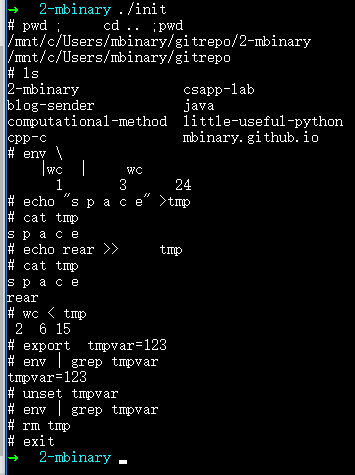
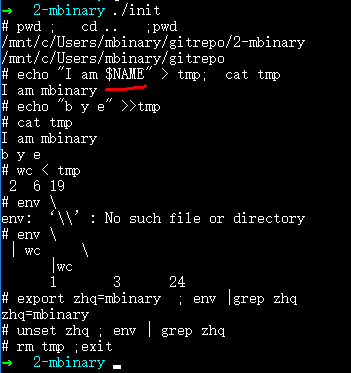
support varible

diff --git a/init.c b/init.c
@@ -8,7 +8,7 @@
         implemented some shell cmds and features;
         including:
             cmds: pwd,ls, cd ,cat, env, export , unset, 
-            features: \  |  < >   >>   ;   & " ' quote handle \t redundent blank
+            features:$ \  |  < >   >>   ;   & " ' quote handle \t redundent blank
  ************************************************************************/
 
 #include <unistd.h>
@@ -26,11 +26,13 @@
 #define MAX_PATH_LENGTH 255
 #define MAX_BUF_SIZE  4096
 #define MAX_ARG_NUM 50
+#define MAX_VAR_NUM 50
 #define MAX_CMD_NUM 10
+#define MAX_VAR_LENGTH 500
 
 #define FORK_ERROR 2
 #define EXEC_ERROR 3
-#define WRONG_INPUT 4
+
 struct cmd{
     struct cmd * next;
     int begin,end;  // pos in cmdStr
@@ -42,16 +44,19 @@ struct cmd{
 };
 
 struct cmd cmdinfo[MAX_CMD_NUM];
-int cmdNum;
 char cmdStr[MAX_CMD_LENGTH];    
+int cmdNum,varNum;
+char envVar[MAX_VAR_NUM][MAX_PATH_LENGTH];
 
-void Error(int n);
+
+void Error(int );
 void debug(struct cmd*);
 void init(struct cmd*);
 void setIO(struct cmd*,int ,int );
 int  getInput();
 int  parseCmds(int);
-int  getPath(char *,int);
+int  handleVar(struct cmd *,int);
+int  getItem(char *,char *,int);
 int  parseArgs();
 int  execInner(struct cmd*);
 int  execOuter(struct cmd*);
@@ -59,7 +64,7 @@ int  execOuter(struct cmd*);
 
 int main(){
     while (1){
-        cmdNum =0;
+        cmdNum = varNum = 0;
         printf("# ");
         fflush(stdin);
         int n = getInput();
@@ -177,23 +182,46 @@ int  parseCmds(int n){
     }
 }
 
-int getPath(char *path,int p){   
+int getItem(char *dst,char*src, int p){   
     /* get redirect file path from the cmdStr */
     int ct=0;
-    while(cmdStr[++p]==' ');
-    if(cmdStr[p]=='\n')return -1; //no file 
+    while(src[++p]==' ');
+    if(src[p]=='\n')return -1; //no file 
     char c;
-    while(c=path[ct++]=cmdStr[p++]){
+    while(c=dst[ct++]=src[p++]){
         if(c==' '||c=='|'||c=='<'||c=='>'||c=='\n')break;
     }
-    path[ct]='\0';
+    dst[ct]='\0';
     return p-1;
 }
 
+int handleVar(struct cmd *pcmd,int n){
+    char * arg = pcmd->args[n];
+    int p_arg=0,p_var=0;
+    while(arg[p_arg]){
+        if(arg[p_arg]=='$'){
+            if(arg[p_arg+1]=='{')p_arg+=2;
+            else p_arg+=1;
+            char arr[MAX_VAR_LENGTH],*tmp=arr;
+            int ct=0;
+            while(tmp[ct]=arg[p_arg++]){
+                if(tmp[ct]==' '||tmp[ct]=='\n'||tmp[ct]=='\0'||tmp[ct]=='}')break;
+                ++ct;
+            }
+            tmp[ct]='\0';
+            tmp = getenv(tmp);
+            for(ct=0;envVar[varNum][p_var++]=tmp[ct++];);
+        }
+        envVar[varNum][p_var++]=arg[p_arg++];
+    }
+    envVar[varNum][p_var]='\0';
+    pcmd->args[n] = envVar[varNum++];
+    return 0;
+}
 
 int parseArgs(){
     /* get args of each cmd and  create cmd-node seperated by pipe */
-    char beginItem=0,beginQuote=0,c;
+    char beginItem=0,beginQuote=0,hasVar=0,c;
 	int begin,end;
 	struct cmd* pcmd;
     for(int p=0;p<cmdNum;++p){
@@ -209,12 +237,19 @@ int parseArgs(){
 				if(beginQuote){
 					beginQuote=beginItem=0;
 					cmdStr[i]='\0';
-				}else{
+                    if(hasVar){
+                        hasVar=0;
+                        handleVar(pcmd,pcmd->argc-1);  //note that is argc-1, not argc
+                    }
+                }else{
 					beginQuote=1;
 					pcmd->args[pcmd->argc++]=cmdStr+i+1;
 				}
                 continue;
-			}else if(beginQuote)continue;
+			}else if(beginQuote){
+                if(c=='$' &&cmdStr[i-1]!='\\'&&!hasVar)hasVar=1;
+                continue;
+            }
             
             if(c=='<'||c=='>'||c=='|'){
                 if(beginItem)beginItem=0;
@@ -227,9 +262,8 @@ int parseArgs(){
                 }else{
                     pcmd->lredir+=1;  //<
                 }
-                int tmp = getPath(pcmd->fromFile,i);
-                if(tmp<=0)continue;       // no redirect file
-                i = tmp;
+                int tmp = getItem(pcmd->fromFile,cmdStr,i);
+                if(tmp>0)i = tmp;
             }else if(c=='>'){
                 if(cmdStr[i+1]=='>'){
                     pcmd->rredir+=2;  //>>
@@ -237,9 +271,8 @@ int parseArgs(){
                 }else{
                     pcmd->rredir+=1;  //>
                 }
-                int tmp = getPath(pcmd->toFile,i);
-                if(tmp<=0)continue;
-                i = tmp;
+                int tmp = getItem(pcmd->toFile,cmdStr,i);
+                if(tmp>0)i = tmp;
             }else if (c=='|'){
                 /*when encountering pipe | , create new cmd node chained after the fommer one   */
                 pcmd->end = i;
@@ -251,17 +284,22 @@ int parseArgs(){
                     beginItem=0;
                     cmdStr[i]='\0';
                 }
-                continue;
             }else{
                 if(pcmd->begin==-1)pcmd->begin=i;
                 if(!beginItem){
                     beginItem=1;
+                    if(c=='$' &&cmdStr[i-1]!='\\'&&!hasVar)hasVar=1;
                     pcmd->args[pcmd->argc++]=cmdStr+i;
                 }
             }
+            
+            if(hasVar){
+                hasVar=0;
+                handleVar(pcmd,pcmd->argc-1);  //note that is argc-1, not argc
+            }
         }
-        //printf("%dfrom:%s   %dto:%s\n",pcmd->lredir,pcmd->fromFile,pcmd->rredir,pcmd->toFile);
         pcmd->end=end;
+        //printf("%dfrom:%s   %dto:%s\n",pcmd->lredir,pcmd->fromFile,pcmd->rredir,pcmd->toFile);
     }
 }
 
@@ -310,7 +348,7 @@ void setIO(struct cmd *pcmd,int rfd,int wfd){
         /* settle file redirect  */
     if(pcmd->rredir>0){  //  >,  >>
         int flag ;
-        if(pcmd->rredir==1)flag=O_WRONLY|O_CREAT;  // >
+        if(pcmd->rredir==1)flag=O_WRONLY|O_TRUNC|O_CREAT;  // >  note: trunc is necessary!!!
         else flag=O_WRONLY|O_APPEND|O_CREAT; //>>
         int wport = open(pcmd->toFile,flag);
         dup2(wport,STDOUT_FILENO);

diff --git a/README.md b/README.md
@@ -18,8 +18,9 @@ including:
 	- `\` multi-line input
 	- `|`  pipe
 	- `< >   >>`  redirect
-	-  `;` multi-cmd
-	-  `&` background
+	- `;` multi-cmd
+	- `&` background
+	- `$` support varible: echo ".. $VAR "
 
 ## Visual
 ![](src/shell.png)
